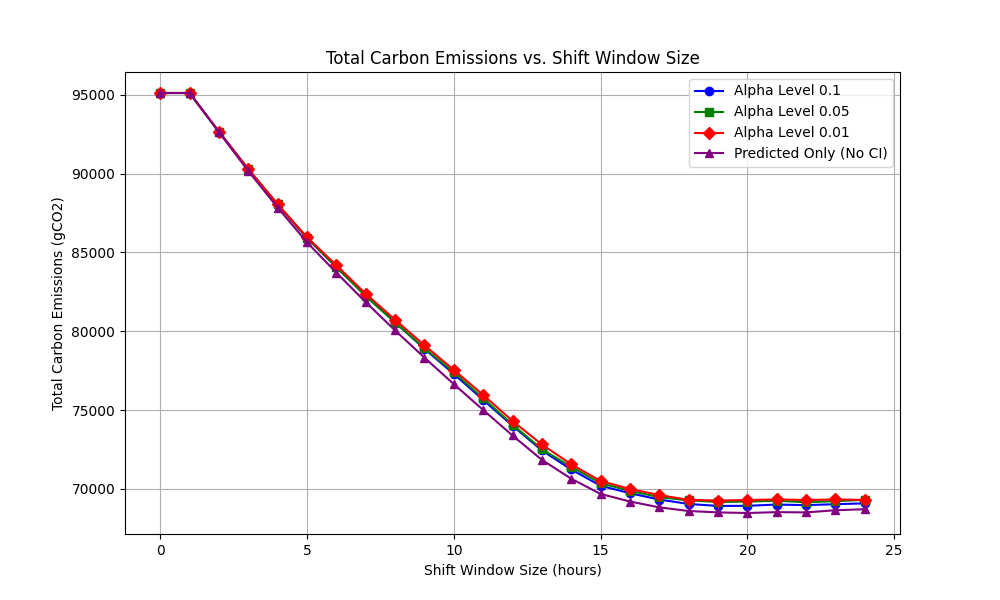
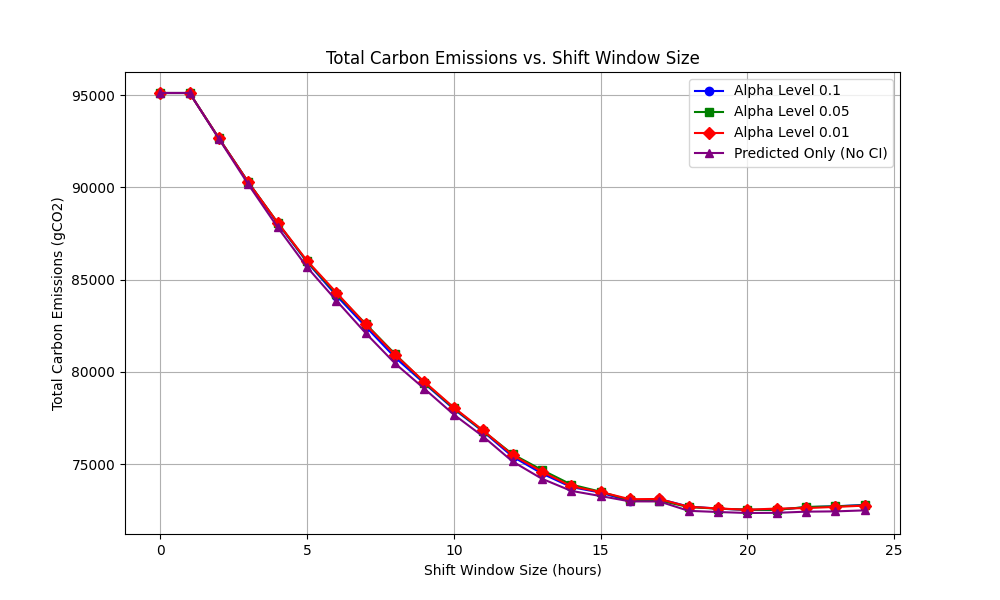
New graphs

diff --git a/algorithm_temporal_shift_power_cap_uncertainity/temporal_shift_power_cap_24hrWindow.py b/algorithm_temporal_shift_power_cap_uncertainity/temporal_shift_power_cap_24hrWindow.py
@@ -8,7 +8,7 @@ generate_image = False
 generate_csv = False  # Set to False to avoid generating multiple CSV files
 
 # Define dataset and paths
-ciso_name = 'ISNE'  # Define the name of the CISO dataset
+ciso_name = 'CISO'  # Define the name of the CISO dataset
 power_trace_path = Path('..') / 'data_powerTrace' / 'cella_pdu6_converted.csv'
 
 # Define alpha levels and corresponding file paths
@@ -49,7 +49,7 @@ average_power_utilization = merged_df['measured_power_util'].mean()
 
 # Define the max peak power as a multiple of the average power utilization
 # Since you want only one parameter, we'll fix the power multiplier at 1
-power_multiplier = 5
+power_multiplier = 3
 max_peak_power = power_multiplier * average_power_utilization
 
 # Function to perform workload shifting

diff --git a/algorithm_temporal_shift/temporal_shift_singleDataPoint.py b/algorithm_temporal_shift/temporal_shift_singleDataPoint.py
@@ -4,8 +4,8 @@ from pathlib import Path
 
 # Define variables to control the generation of data, image, and CSV files
 generate_text = False
-generate_image = False
-generate_csv = True
+generate_image = True
+generate_csv = False
 
 # Read the CSV files with proper datetime parsing
 ciso_name = 'CISO'  # Define the name of the CISO dataset
@@ -22,7 +22,7 @@ power_trace_df.rename(columns={'hour': 'datetime'}, inplace=True)
 merged_df = pd.merge(power_trace_df, ci_data, on='datetime')
 
 # Define the shift window (in hours)
-shift_window = 3  # You can change this value as needed
+shift_window = 24  # You can change this value as needed
 
 # Check if shift_window is 0 to skip optimization
 if shift_window == 0:
